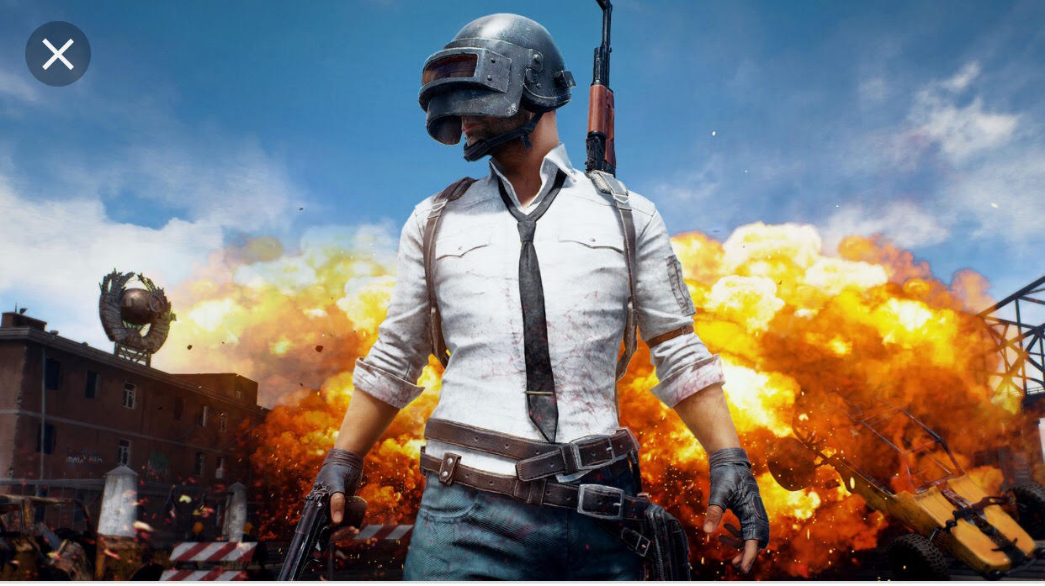
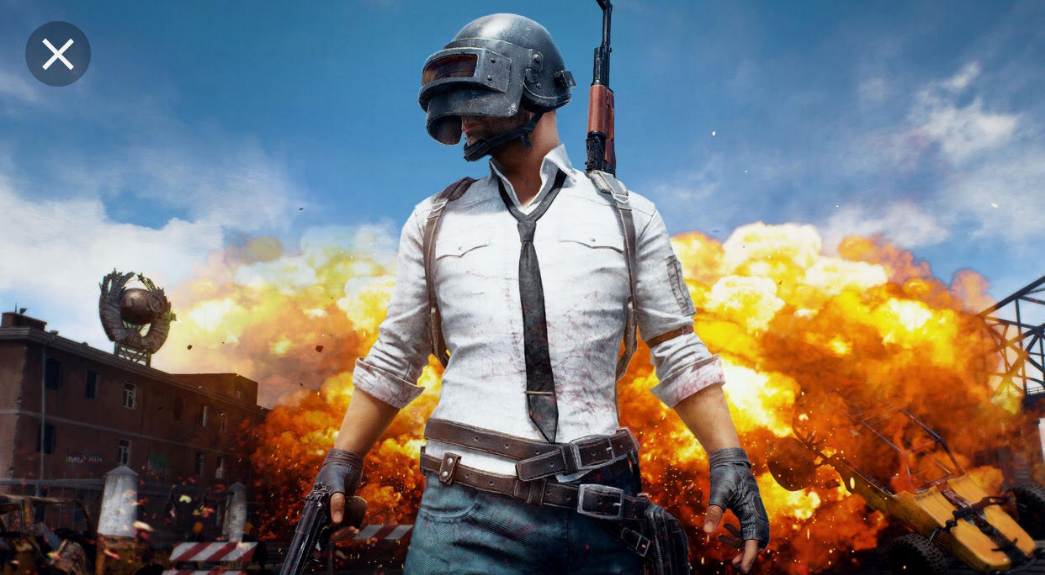
home gamesFix

diff --git a/src/assets/style/home.scss b/src/assets/style/home.scss
@@ -177,6 +177,7 @@
                     .main_img_container{
                         position: relative;
                         overflow: hidden;
+                        margin-bottom: 10px;
                         &:hover .main_img{
                             transform: scale(1.2);
                         }
@@ -214,7 +215,7 @@
                     .main_img{
                         width: 100%;
                         height: 360px;
-                        object-fit: none;
+                        object-fit: cover;
                         object-position: center center;
                         transition: all .5s ease-in-out;
                     }
